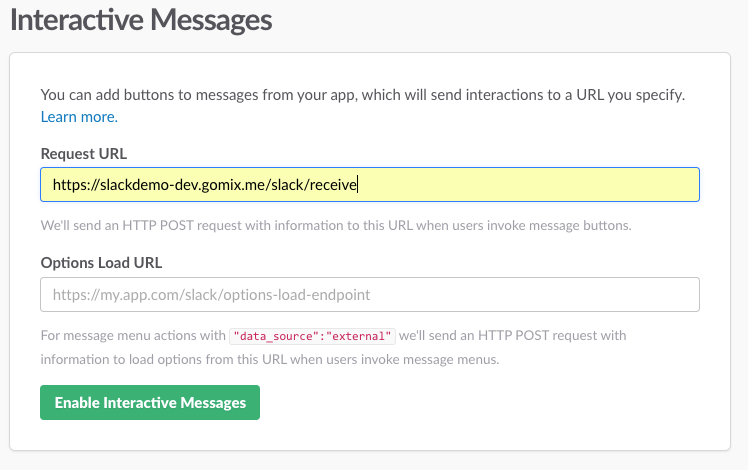
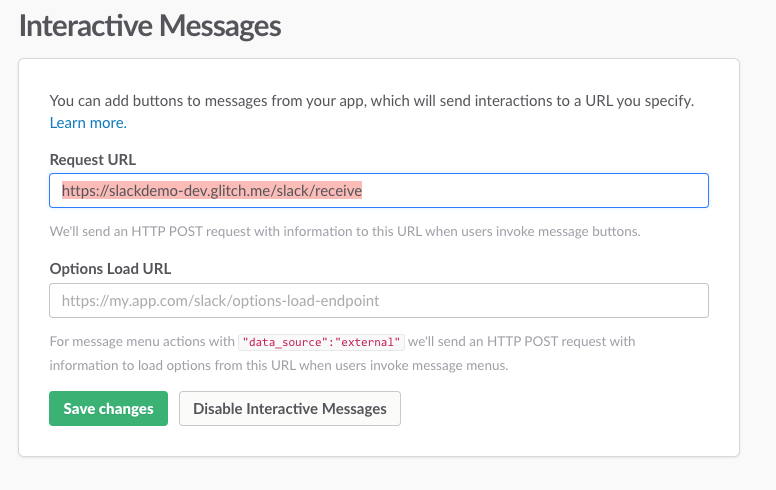
fixed glitch urls

diff --git a/docs/provisioning/slack-events-api.md b/docs/provisioning/slack-events-api.md
@@ -18,26 +18,9 @@ You will receive a `clientId` and a `clientSecret`. You need these values - copy
 
 ## 2) Turn on your Botkit app
 
-Now that you've got your clientId and clientSecret, you can start your Botkit app.
-Assuming you are using the [Botkit Slack Starter Kit](https://github.com/howdyai/botkit-starter-slack),
-this can be done by passing the values in via the command line:
+Now that you've got your clientId and clientSecret, you can start your Botkit app. You will need to have a bot service online and reachable over the web to finish setting up your bot with Slack. 
 
-```
-clientId=<my client id> clientSecret=<my client secret> PORT=3000 node .
-```
-
-This will cause the Botkit application to boot up and start listening for messages via incoming web hooks.
-
-With the Events API, Slack will send all information to your bot via simple
-web hooks. To receive web hooks, you will need a public internet address that is
-SSL-enabled.
-
-During development, you can use a tool like [ngrok.io](http://ngrok.io) or [localtunnel.me](http://localtunnel.me)
-to temporarily expose your development environment to the public internet.
-However, once you go live, you will need a real, stable address.
-
-In the end, you will have a known url - for example `https://my-dev-bot.ngrok.io` -
-that you will use to finish the configuration inside Slack.
+There are a number of different ways that you can host your Botkit app, read more about this in [Botkit's Slack Readme](https://github.com/howdyai/botkit/blob/master/docs/readme-slack.md) 
 
 ## 3) Configure oauth
 
